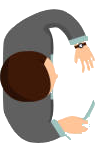
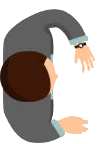
add customers

Changed region(s): [[0.7642, 0.6944, 0.9057, 0.8333], [0.5943, 0.9167, 0.6792, 0.9722], [0.8208, 0.8611, 0.8491, 0.8889]]

diff --git a/core/src/com/mygdx/game/Kunde.java b/core/src/com/mygdx/game/Kunde.java
@@ -26,11 +26,18 @@ public class Kunde extends BaseActor {
         this.sleeper = sleep;
         neu = true;
 
-        String[] kunden = new String[3];
+        String[] kunden = new String[10];
         kunden[0] = "Kunde_1.png";
         kunden[1] = "Kunde_2.png";
         kunden[2] = "Kunde_3.png";
-        loadTexture(kunden[random.nextInt(0,3)]);
+        kunden[3] = "Kunde_4.png";
+        kunden[4] = "Kunde_5.png";
+        kunden[5] = "Kunde_6.png";
+        kunden[6] = "Kunde_7.png";
+        kunden[7] = "Kunde_8.png";
+        kunden[8] = "Kunde_9.png";
+        kunden[9] = "Kunde_10.png";
+        loadTexture(kunden[random.nextInt(0,10)]);
 
         addAction(walkUpTo(position, sleep));
     }
